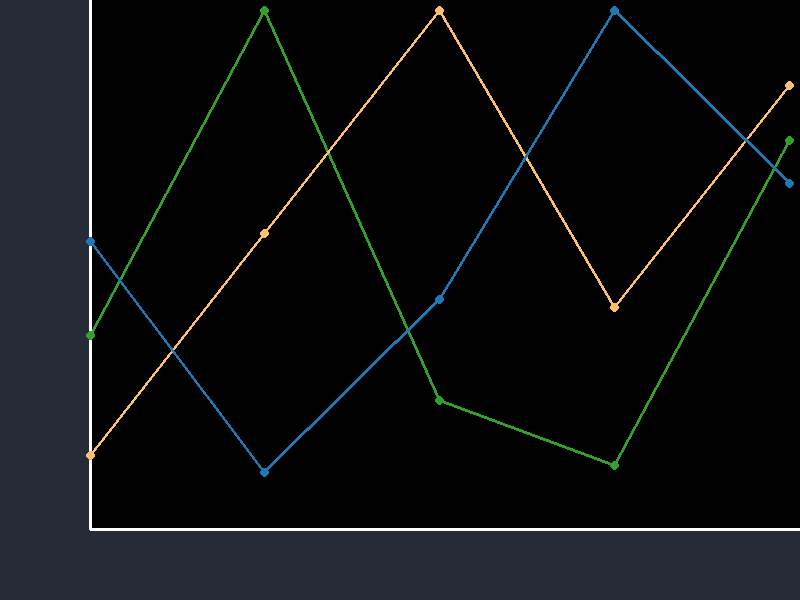
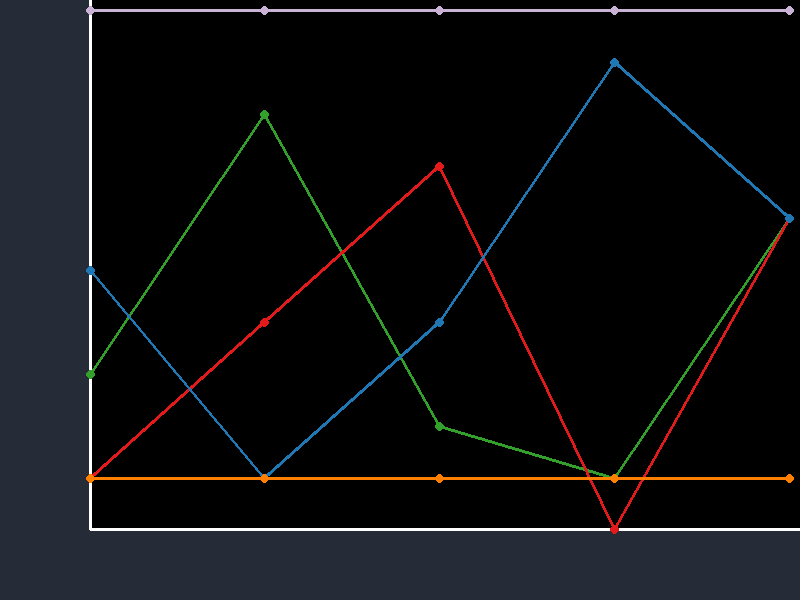
Prise en compte du max lors d'une superposition : DONE !

diff --git a/plotting_data/src/main.c b/plotting_data/src/main.c
@@ -44,7 +44,8 @@ typedef struct LineData_s {
 /* --------------------------------------------------------------------------- */
 typedef struct Figure {
     gdImage *img;        /**< Pointeur sur objet gdImage */
-    LineData *linedata;  /**< Vecteur de LineData */
+    size_t nb_linedata;  /**< Nombre de linedata dans la figure */
+    LineData **linedata;  /**< Vecteur de LineData */
     int max_X;           /**< max de l'ensemble des max_X de linedata[] */
     int max_Y;           /**< max de l'ensemble des max_Y de linedata[] */
     int pad[2];          /**< Padding pour definir canvas (cvs) et orig */
@@ -164,6 +165,9 @@ void Save_to_png(Figure *fig, const char *dir_figures, const char *filename_fig)
 
     /* Close the files. */
     fclose(pngout_fig);
+
+    free(fig->linedata);
+
 }
 
 
@@ -255,11 +259,10 @@ void Transform_dataX_to_plot(Figure *fig, size_t len_pts,\
 {
     // Taile de la zone de dessin
     const int w_dessin = fig->img->sx - fig->orig[0] - fig->margin[0] - 1;
-    const int max_pts = maxval_array(pts, len_pts);
 
     for (int i = 0; i < len_pts; i++)
     {
-        pts_dessin[i] = (pts[i] * w_dessin) / max_pts;
+        pts_dessin[i] = (pts[i] * w_dessin) / fig->max_X;
         // printf("Point : %d, %d \n", i, pts_dessin[i]);
     }
 
@@ -272,12 +275,10 @@ void Transform_dataY_to_plot(Figure *fig, size_t len_pts, \
 {
     // Taile de la zone de dessin
 
-    const int h_dessin = fig->orig[1] - fig->margin[1];
-    const int max_pts = maxval_array(pts, len_pts);
-   
+    const int h_dessin = fig->orig[1] - fig->margin[1];   
     for (int i = 0; i < len_pts; i++)
     {
-        pts_dessin[i] = -(pts[i] * h_dessin) / max_pts;
+        pts_dessin[i] = -(pts[i] * h_dessin) / fig->max_Y;
         // printf("Point : %d, %d \n", i, pts_dessin[i]);
     }
 
@@ -340,6 +341,7 @@ void Init_figure(Figure *fig, int figsize[2], int pad[2], int margin[2])
         fig->color_cvs_bg[i] = col_cvs[i];        
         fig->color_axes[i] = col_axes[i];
     }
+    fig->nb_linedata = 0;
     fig->linedata = NULL;
     
     Make_background(fig, fig->color_bg, fig->color_cvs_bg);
@@ -389,7 +391,7 @@ void Init_linedata(LineData *linedata, int len_data, int ptx[], int pty[],
     linedata->x = ptx;
     linedata->y = pty;
     linedata->max_X = maxval_array(linedata->x, linedata->len_data);
-    linedata->max_X = maxval_array(linedata->y, linedata->len_data);
+    linedata->max_Y = maxval_array(linedata->y, linedata->len_data);
     linedata->linestyle = linestyle;
 }
 
@@ -432,6 +434,20 @@ void Print_debug_ld(LineData *linedata)
     printf("*** End linedata\n\n");
 }
 
+int max_int(int x, int y) 
+{
+    return (x < y) ? y : x ;
+}
+
+/* --------------------------------------------------------------------------- */
+void Update_fig(Figure *fig, LineData *linedata)
+{
+    fig->nb_linedata++;
+    fig->linedata = (LineData *)realloc(fig->linedata, fig->nb_linedata*sizeof(LineData));
+    fig->linedata[fig->nb_linedata] = linedata;
+    fig->max_X = max_int(fig->max_X, linedata->max_X);
+    fig->max_Y = max_int(fig->max_Y, linedata->max_Y);
+}
 /* =========================================================================== */
 int main(int argc, char* argv[]) 
 {
@@ -455,40 +471,59 @@ int main(int argc, char* argv[])
     int coul_trait1[3]  = {51, 160,  44};   //vert_fonce
     int coul_trait2[3] = {253, 191, 111};  //orange_clair
     int coul_trait3[3] = {31, 120, 180};   //bleu_fonce
+    int coul_trait4[3] = {255, 127,   0};   //orange_fonce
+    int coul_trait5[3] = {202, 178, 214};   //violet_clair
+    int coul_trait6[3] = {227,  26,  28};   //rouge_fonce
 
 
     Figure fig1;
     Init_figure(&fig1, figsize, pad, margin);
 
-    int ptx[] = {0, 100, 200, 300, 400};
-    int pty[] = {3, 8, 2, 1, 6};
-    int pty2[] = {1, 4, 7, 3, 6};
-    int pty3[] = {5, 1, 4, 9, 6};
+    int ptx[]  = {0, 100, 200, 300, 400};
+    int pty[]  = {3,   8,   2,   1,   6};
+    int pty2[] = {1,   4,   7,   0,   6};
+    int pty3[] = {5,   1,   4,   9,   6};
+    int pty4[] = {1,   1,   1,   1,   1};
+    int pty5[] = {10,  10,  10,  10,  10};
 
     size_t len_data = sizeof(ptx)/sizeof(ptx[0]);
 
     LineStyle linestyle1;
     Init_linestyle(&linestyle1, '-', coul_trait1, w_lines,'o', ms);
+    LineData line1;
+    Init_linedata(&line1, len_data, ptx, pty, &linestyle1);
+    Update_fig(&fig1, &line1);
 
     LineStyle linestyle2;
-    Init_linestyle(&linestyle2, '-', coul_trait2, w_lines,'o', ms);
+    Init_linestyle(&linestyle2, '-', coul_trait6, w_lines,'o', ms);
+    LineData line2;
+    Init_linedata(&line2, len_data, ptx, pty2, &linestyle2);
+    Update_fig(&fig1, &line2);
 
     LineStyle linestyle3;
     Init_linestyle(&linestyle3, '-', coul_trait3, w_lines,'o', ms);
-
-    LineData line1;
-    Init_linedata(&line1, len_data, ptx, pty, &linestyle1);
-    LineData line2;
-    Init_linedata(&line2, len_data, ptx, pty2, &linestyle2);
     LineData line3;
     Init_linedata(&line3, len_data, ptx, pty3, &linestyle3);    
+    Update_fig(&fig1, &line3);
 
-    // Ajouter les lines dans Fig->linedata, plotline bouclera sur les 
-    // lignes et calculera le max tot
+    LineStyle linestyle4;
+    Init_linestyle(&linestyle4, '-', coul_trait4, w_lines,'o', ms);
+    LineData line4;
+    Init_linedata(&line4, len_data, ptx, pty4, &linestyle4);    
+    Update_fig(&fig1, &line4);
 
+    LineStyle linestyle5;
+    Init_linestyle(&linestyle5, '-', coul_trait5, w_lines,'o', ms);
+    LineData line5;
+    Init_linedata(&line5, len_data, ptx, pty5, &linestyle5);    
+    Update_fig(&fig1, &line5);
+
+    // Plot_all_lines(&fig1);
     PlotLine(&fig1, &line1);
     PlotLine(&fig1, &line2);
     PlotLine(&fig1, &line3);
+    PlotLine(&fig1, &line4);
+    PlotLine(&fig1, &line5);
 
     /* Sauvegarde du fichier png */
     const char *filename_fig1= "fig1.png";
